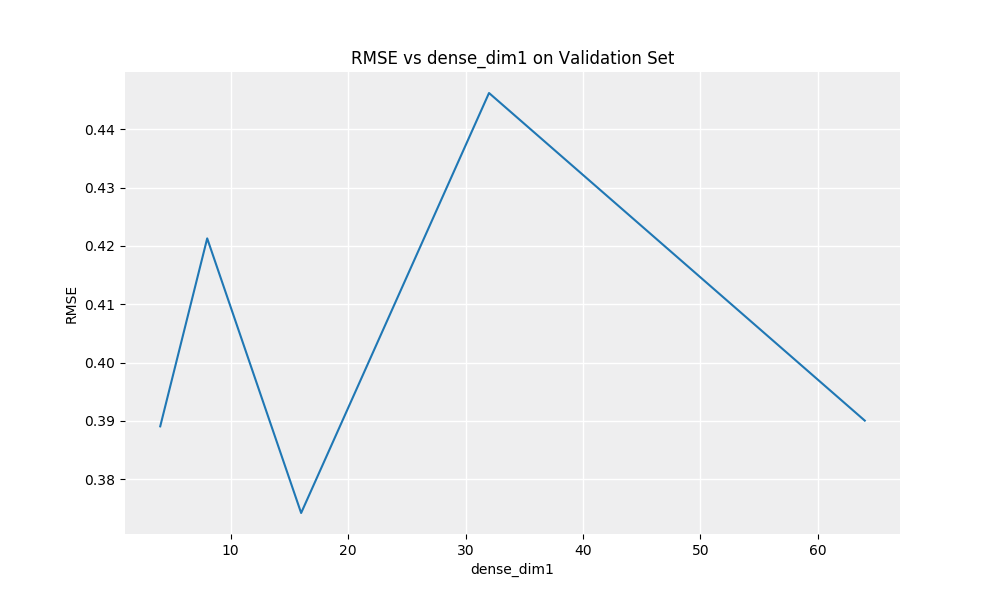
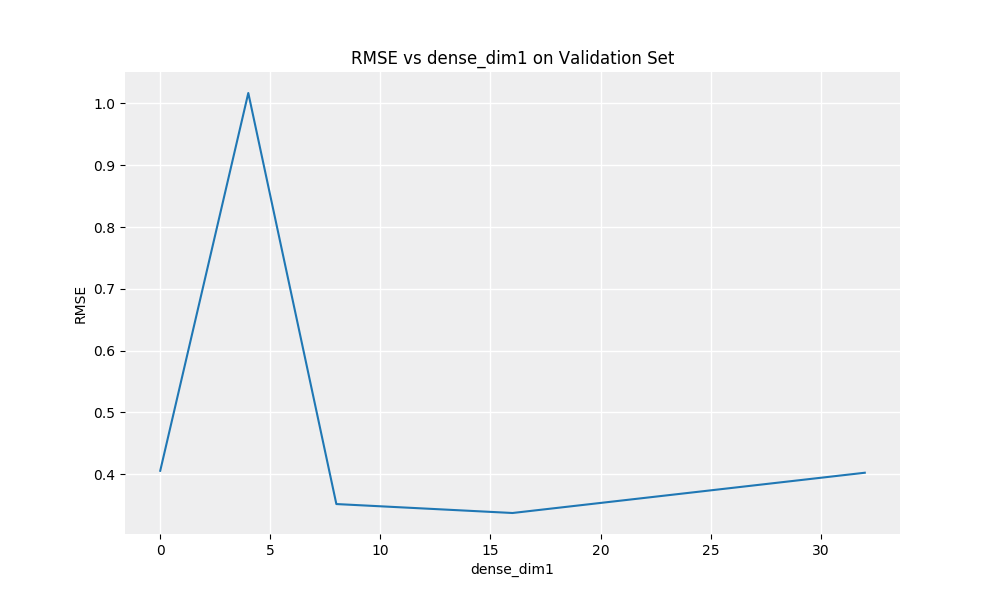
finished tuning hyperparams

diff --git a/hyperparameters/tuning.py b/hyperparameters/tuning.py
@@ -7,52 +7,52 @@ os.chdir('..')
 aapl_model = StockModel('AAPL')
 
 # optimize lookback ==> 7
-# print "...tuning lookback"
-# lookback_range = [7, 14, 21, 28, 35]
-# lookback_rmse = []
-# for e,lookback in enumerate(lookback_range):
-#     aapl_model.loadStock(lookback=lookback, validation_split=True)
-#     model, history = aapl_model.train(lstm_dim1=128, lstm_dim2=128, dropout=0.2, dense_dim1=None, epochs=50)
-#     rmse = aapl_model.validate(model)
-#     lookback_rmse.append(rmse)
-#     print "%i/%i lookback tunings complete." % (e+1,len(lookback_range))
-# plotHyperparameterTuning(lookback_range, lookback_rmse, 'lookback')
+print "...tuning lookback"
+lookback_range = [7, 14, 21, 28, 35]
+lookback_rmse = []
+for e,lookback in enumerate(lookback_range):
+    aapl_model.loadStock(lookback=lookback, validation_split=True)
+    model, history = aapl_model.train(lstm_dim1=128, lstm_dim2=128, dropout=0.2, dense_dim1=None, epochs=50)
+    rmse = aapl_model.validate(model)
+    lookback_rmse.append(rmse)
+    print "%i/%i lookback tunings complete." % (e+1,len(lookback_range))
+plotHyperparameterTuning(lookback_range, lookback_rmse, 'lookback')
 
 # optimize lstm_dim1 ==> 512
-# print "...tuning lstm_dim1"
+print "...tuning lstm_dim1"
 aapl_model.loadStock(lookback=7, validation_split=True)
-# lstm_dim1_range = [16, 32, 64, 128, 256, 512, 1024]
-# lstm_dim1_rmse = []
-# for e,lstm_dim1 in enumerate(lstm_dim1_range):
-#     model, history = aapl_model.train(lstm_dim1=lstm_dim1, lstm_dim2=128, dropout=0.2, dense_dim1=None, epochs=100)
-#     rmse = aapl_model.validate(model)
-#     lstm_dim1_rmse.append(rmse)
-#     print "%i/%i lstm_dim1 tunings complete." % (e+1,len(lstm_dim1_range))
-# plotHyperparameterTuning(lstm_dim1_range, lstm_dim1_rmse, 'lstm_dim1')
+lstm_dim1_range = [16, 32, 64, 128, 256, 512, 1024]
+lstm_dim1_rmse = []
+for e,lstm_dim1 in enumerate(lstm_dim1_range):
+    model, history = aapl_model.train(lstm_dim1=lstm_dim1, lstm_dim2=128, dropout=0.2, dense_dim1=None, epochs=100)
+    rmse = aapl_model.validate(model)
+    lstm_dim1_rmse.append(rmse)
+    print "%i/%i lstm_dim1 tunings complete." % (e+1,len(lstm_dim1_range))
+plotHyperparameterTuning(lstm_dim1_range, lstm_dim1_rmse, 'lstm_dim1')
 
 # optimize lstm_dim2 ==> 256
-# print "...tuning lstm_dim2"
-# lstm_dim2_range = [16, 32, 64, 128, 256, 512, 1024]
-# lstm_dim2_rmse = []
-# for e,lstm_dim2 in enumerate(lstm_dim2_range):
-#     model, history = aapl_model.train(lstm_dim1=512, lstm_dim2=lstm_dim2, dropout=0.2, dense_dim1=None, epochs=100)
-#     rmse = aapl_model.validate(model)
-#     lstm_dim2_rmse.append(rmse)
-#     print "%i/%i lstm_dim2 tunings complete." % (e+1,len(lstm_dim2_range))
-# plotHyperparameterTuning(lstm_dim2_range, lstm_dim2_rmse, 'lstm_dim2')
+print "...tuning lstm_dim2"
+lstm_dim2_range = [16, 32, 64, 128, 256, 512, 1024]
+lstm_dim2_rmse = []
+for e,lstm_dim2 in enumerate(lstm_dim2_range):
+    model, history = aapl_model.train(lstm_dim1=512, lstm_dim2=lstm_dim2, dropout=0.2, dense_dim1=None, epochs=100)
+    rmse = aapl_model.validate(model)
+    lstm_dim2_rmse.append(rmse)
+    print "%i/%i lstm_dim2 tunings complete." % (e+1,len(lstm_dim2_range))
+plotHyperparameterTuning(lstm_dim2_range, lstm_dim2_rmse, 'lstm_dim2')
 
 # optimize dropout ==> 0.3
-# print "...tuning dropout"
-# dropout_range = [0, .1, .2, .3, .4]
-# dropout_rmse = []
-# for e,dropout in enumerate(dropout_range):
-#     model, history = aapl_model.train(lstm_dim1=512, lstm_dim2=256, dropout=dropout, dense_dim1=None, epochs=100)
-#     rmse = aapl_model.validate(model)
-#     dropout_rmse.append(rmse)
-#     print "%i/%i dropout tunings complete." % (e+1,len(dropout_range))
-# plotHyperparameterTuning(dropout_range, dropout_rmse, 'dropout')
+print "...tuning dropout"
+dropout_range = [0, .1, .2, .3, .4]
+dropout_rmse = []
+for e,dropout in enumerate(dropout_range):
+    model, history = aapl_model.train(lstm_dim1=512, lstm_dim2=256, dropout=dropout, dense_dim1=None, epochs=100)
+    rmse = aapl_model.validate(model)
+    dropout_rmse.append(rmse)
+    print "%i/%i dropout tunings complete." % (e+1,len(dropout_range))
+plotHyperparameterTuning(dropout_range, dropout_rmse, 'dropout')
 
-# optimize dense_dim1
+# optimize dense_dim1 ==> 16
 print "...tuning dense_dim1"
 dense_dim1_range = [0, 4, 8, 16, 32]
 dense_dim1_rmse = []
@@ -64,15 +64,3 @@ for e,dense_dim1 in enumerate(dense_dim1_range):
     dense_dim1_rmse.append(rmse)
     print "%i/%i dense_dim1 tunings complete." % (e+1,len(dense_dim1_range))
 plotHyperparameterTuning(dense_dim1_range, dense_dim1_rmse, 'dense_dim1')
-
-# optimize lookback ==> 7
-print "...tuning lookback"
-lookback_range = [7, 14, 21, 28, 35]
-lookback_rmse = []
-for e,lookback in enumerate(lookback_range):
-    aapl_model.loadStock(lookback=lookback, validation_split=True)
-    model, history = aapl_model.train(lstm_dim1=512, lstm_dim2=256, dropout=0.3, dense_dim1=None, epochs=100)
-    rmse = aapl_model.validate(model)
-    lookback_rmse.append(rmse)
-    print "%i/%i lookback tunings complete." % (e+1,len(lookback_range))
-plotHyperparameterTuning(lookback_range, lookback_rmse, 'lookback')

diff --git a/lstm.py b/lstm.py
@@ -59,7 +59,7 @@ class StockModel():
               (self.ticker, return_df.shape[0], return_df.shape[1])
         return return_df
 
-    def loadStock(self, lookback=25, validation_split=True):
+    def loadStock(self, lookback=7, validation_split=True):
         ''' load and scale data, split into training/validation/test sets '''
         print "\n\n...loading %s stock" % self.ticker
         df = self.__loadData()
@@ -114,7 +114,7 @@ class StockModel():
                     verbose=0)
         return history
 
-    def train(self, lstm_dim1=128, lstm_dim2=128, dropout=0.2, dense_dim1=None, epochs=200):
+    def train(self, lstm_dim1=512, lstm_dim2=256, dropout=0.3, dense_dim1=16, epochs=200):
         ''' build and train model '''
         t0 = time.time()
         print "\n\n...beginning training"
